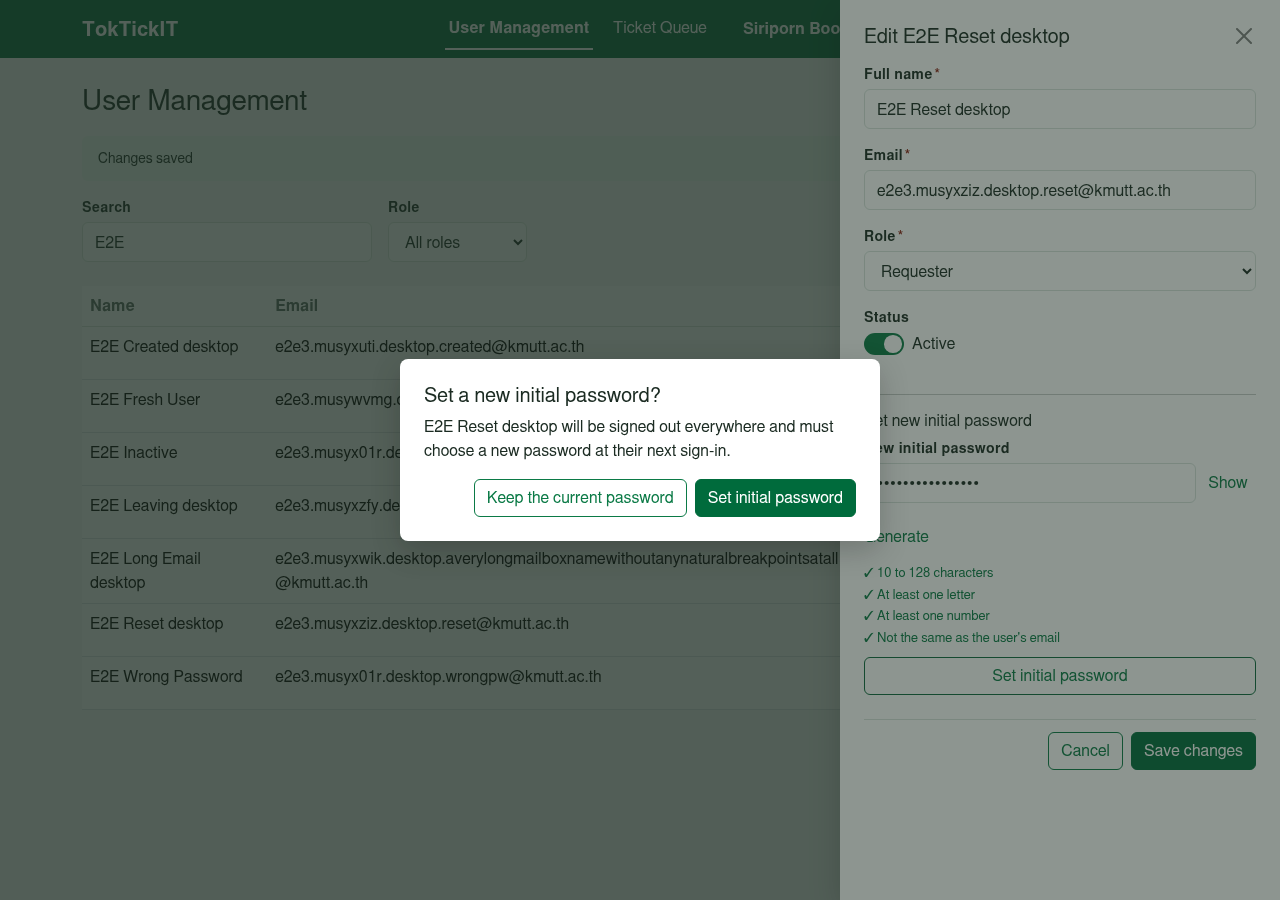
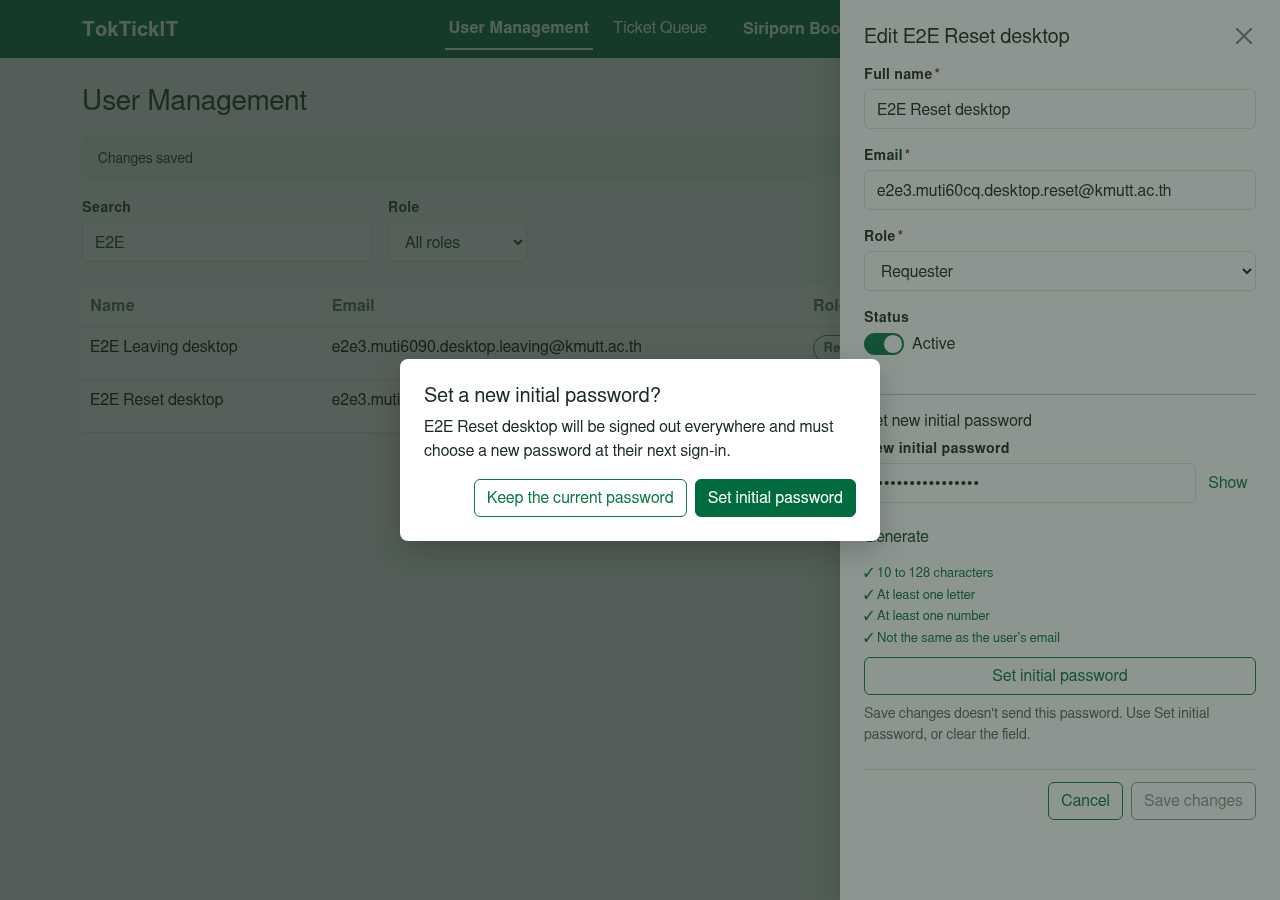
fix: review notes from PR #59 and PR #60
PR #60 (User Management):
- A typed new initial password was silently dropped by Save changes. Save
  changes is now disabled while that field has text, with the reason below
  it ("Save changes doesn't send this password. Use Set initial password,
  or clear the field.").
- LAST_ADMINISTRATOR caused by a role change now appears below Role; it
  stays below Active when the save deactivated the user.
- Three lock-plan retries in a row (BR-81) ended in a plain 500. The loop
  is now retryOnLockPlanChange, which answers 409 STALE_STATE ("This user
  was changed by someone else at the same time. Please try again."); the
  client shows it as a banner in the panel. api-spec §6.3 lists it.

PR #59 (authorization evidence script):
- No argument now prints a plain usage line instead of bash's
  "line 17: 1: usage: ...".
- Empty user ids from /api/auth/me stop the script before any request body
  is built.

The three set-initial-password screenshots are refreshed to show the hint.

Claude-Session: https://claude.ai/code/session_01RtRKhzKcqBzWsTMgWBk4cj

diff --git a/server/src/adminUsers.ts b/server/src/adminUsers.ts
@@ -19,7 +19,24 @@ class Refusal extends Error {
     super(message);
   }
 }
-class LockPlanChanged extends Error {}
+export class LockPlanChanged extends Error {}
+
+const LOCK_PLAN_ATTEMPTS = 3;
+
+// BR-81: an attempt that finds its lock plan out of date throws LockPlanChanged
+// and is tried again. If the user keeps changing under every attempt, answer
+// 409 STALE_STATE so the Administrator can try again (PR #60 review), rather
+// than a 500. Any other error passes straight through.
+export async function retryOnLockPlanChange<T>(attempt: () => Promise<T>): Promise<T> {
+  for (let i = 0; i < LOCK_PLAN_ATTEMPTS; i++) {
+    try {
+      return await attempt();
+    } catch (error) {
+      if (!(error instanceof LockPlanChanged)) throw error;
+    }
+  }
+  throw new Refusal(409, "STALE_STATE", "This user was changed by someone else at the same time. Please try again.");
+}
 
 const invalid = (fields: Record<string, string>) => new Refusal(400, "VALIDATION_ERROR", "Some fields need attention.", fields);
 const emailTaken = () => new Refusal(409, "EMAIL_TAKEN", "Another user already has this email.", { email: "Another user already has this email." });
@@ -128,56 +145,50 @@ const updateUser = handle(async (req, res) => {
   const allowed = Object.fromEntries(Object.entries(body).filter(([k]) => ["name", "email", "role", "isActive"].includes(k)));
   const f = readFields(allowed, []);
 
-  for (let attempt = 0; attempt < 3; attempt++) {
-    try {
-      const user = await prisma.$transaction(async (tx) => {
-        const before = await tx.user.findUniqueOrThrow({ where: { id }, select: { role: true, isActive: true } });
-        const roleChanges = f.role !== undefined && f.role !== before.role;
-        const deactivates = f.isActive === false && before.isActive;
-        // BR-57 — never one's own role or activation.
-        if (id === caller.id && (roleChanges || deactivates)) {
-          throw new Refusal(409, "SELF_CHANGE_FORBIDDEN", "You can't change your own role or deactivate your own account.");
-        }
-        // BR-81 — one lock order for the whole system. A change that could take
-        // away an active Administrator locks the target and every active
-        // Administrator in ONE statement, in ascending id order; any other
-        // change locks only the target. The plan is made from an unlocked read
-        // and re-checked under the locks; if it no longer fits, start over
-        // rather than take more locks out of order.
-        const affectsAdmins = roleChanges || deactivates;
-        const lockAdmins = affectsAdmins && before.role === "ADMINISTRATOR" && before.isActive;
-        const rows = lockAdmins
-          ? await tx.$queryRaw<{ id: number; role: Role; isActive: boolean }[]>`
-              SELECT id, role, "isActive" FROM "User"
-              WHERE id = ${id} OR (role = 'ADMINISTRATOR' AND "isActive")
-              ORDER BY id FOR UPDATE`
-          : await tx.$queryRaw<{ id: number; role: Role; isActive: boolean }[]>`
-              SELECT id, role, "isActive" FROM "User" WHERE id = ${id} FOR UPDATE`;
-        const locked = rows.find((r) => r.id === id)!;
-        if (locked.role !== before.role || locked.isActive !== before.isActive) throw new LockPlanChanged();
+  const user = await retryOnLockPlanChange(() =>
+    prisma.$transaction(async (tx) => {
+      const before = await tx.user.findUniqueOrThrow({ where: { id }, select: { role: true, isActive: true } });
+      const roleChanges = f.role !== undefined && f.role !== before.role;
+      const deactivates = f.isActive === false && before.isActive;
+      // BR-57 — never one's own role or activation.
+      if (id === caller.id && (roleChanges || deactivates)) {
+        throw new Refusal(409, "SELF_CHANGE_FORBIDDEN", "You can't change your own role or deactivate your own account.");
+      }
+      // BR-81 — one lock order for the whole system. A change that could take
+      // away an active Administrator locks the target and every active
+      // Administrator in ONE statement, in ascending id order; any other
+      // change locks only the target. The plan is made from an unlocked read
+      // and re-checked under the locks; if it no longer fits, start over
+      // rather than take more locks out of order.
+      const affectsAdmins = roleChanges || deactivates;
+      const lockAdmins = affectsAdmins && before.role === "ADMINISTRATOR" && before.isActive;
+      const rows = lockAdmins
+        ? await tx.$queryRaw<{ id: number; role: Role; isActive: boolean }[]>`
+            SELECT id, role, "isActive" FROM "User"
+            WHERE id = ${id} OR (role = 'ADMINISTRATOR' AND "isActive")
+            ORDER BY id FOR UPDATE`
+        : await tx.$queryRaw<{ id: number; role: Role; isActive: boolean }[]>`
+            SELECT id, role, "isActive" FROM "User" WHERE id = ${id} FOR UPDATE`;
+      const locked = rows.find((r) => r.id === id)!;
+      if (locked.role !== before.role || locked.isActive !== before.isActive) throw new LockPlanChanged();
 
-        if (f.email !== undefined && (await emailInUse(tx, f.email, id))) throw emailTaken();
-        // BR-58 — never zero active Administrators, counted under the locks.
-        if (lockAdmins && !rows.some((r) => r.id !== id && r.role === "ADMINISTRATOR" && r.isActive)) {
-          throw new Refusal(409, "LAST_ADMINISTRATOR", "TokTickIT must keep at least one active Administrator.");
-        }
-        // BR-60 — not a Requester while owning open tickets (deactivation is fine, BR-29).
-        if (roleChanges && f.role === "REQUESTER") {
-          const open = await tx.ticket.count({ where: { ownerId: id, currentStatus: { notIn: ["CLOSED", "CANCELLED"] } } });
-          if (open > 0) throw new Refusal(409, "OWNS_OPEN_TICKETS", "Reassign this user's open tickets before making them a Requester.");
-        }
-        const updated = await tx.user.update({ where: { id }, data: f, select: SESSION_USER_SELECT });
-        // BR-59 — deactivation and a role change end every session at once.
-        if (roleChanges || deactivates) await tx.session.deleteMany({ where: { userId: id } });
-        return updated;
-      });
-      return res.status(200).json(user);
-    } catch (error) {
-      if (error instanceof LockPlanChanged) continue;
-      throw error;
-    }
-  }
-  throw new Error("User changed repeatedly while being updated.");
+      if (f.email !== undefined && (await emailInUse(tx, f.email, id))) throw emailTaken();
+      // BR-58 — never zero active Administrators, counted under the locks.
+      if (lockAdmins && !rows.some((r) => r.id !== id && r.role === "ADMINISTRATOR" && r.isActive)) {
+        throw new Refusal(409, "LAST_ADMINISTRATOR", "TokTickIT must keep at least one active Administrator.");
+      }
+      // BR-60 — not a Requester while owning open tickets (deactivation is fine, BR-29).
+      if (roleChanges && f.role === "REQUESTER") {
+        const open = await tx.ticket.count({ where: { ownerId: id, currentStatus: { notIn: ["CLOSED", "CANCELLED"] } } });
+        if (open > 0) throw new Refusal(409, "OWNS_OPEN_TICKETS", "Reassign this user's open tickets before making them a Requester.");
+      }
+      const updated = await tx.user.update({ where: { id }, data: f, select: SESSION_USER_SELECT });
+      // BR-59 — deactivation and a role change end every session at once.
+      if (roleChanges || deactivates) await tx.session.deleteMany({ where: { userId: id } });
+      return updated;
+    }),
+  );
+  return res.status(200).json(user);
 });
 
 // §6.4 — a new initial password: forces a change at next sign-in and ends

diff --git a/client/src/screens/UserManagement.tsx b/client/src/screens/UserManagement.tsx
@@ -91,10 +91,12 @@ const rulesMet = (password: string, email: string) => checkPasswordRules(passwor
 
 type Errors = Partial<Record<"name" | "email" | "role" | "isActive" | "initialPassword" | "form", string>>;
 
-function errorsFrom(error: unknown): Errors {
+// LAST_ADMINISTRATOR goes beside the control that caused it: Active when the
+// save deactivated the user, Role when only the role changed (PR #60 review).
+function errorsFrom(error: unknown, lastAdminField: "isActive" | "role" = "isActive"): Errors {
   const err = error instanceof ApiError ? error : null;
   if (!err) return { form: "Something went wrong. Please try again." };
-  if (err.code === "LAST_ADMINISTRATOR") return { isActive: err.message };
+  if (err.code === "LAST_ADMINISTRATOR") return { [lastAdminField]: err.message };
   if (err.code === "OWNS_OPEN_TICKETS") return { role: err.message };
   if (err.code === "SELF_CHANGE_FORBIDDEN") return { role: err.message };
   if (err.fields) return err.fields as Errors;
@@ -119,6 +121,9 @@ function UserPanel({ me, editing, onClose, onSaved }: PanelProps) {
   const [busy, setBusy] = useState(false);
   const [confirmReset, setConfirmReset] = useState(false);
   const titleId = editing ? "edit-user-title" : "create-user-title";
+  // Save changes never sends the new initial password (only Set initial
+  // password does), so it waits until that field is used or cleared (PR #60 review).
+  const unsentPassword = Boolean(editing) && password.length > 0;
   const title = editing ? `Edit ${editing.name}` : "Create user";
 
   function validate(): Errors {
@@ -131,14 +136,15 @@ function UserPanel({ me, editing, onClose, onSaved }: PanelProps) {
 
   async function submit(event: FormEvent) {
     event.preventDefault();
+    if (unsentPassword) return;
     const e = validate();
     setErrors(e);
     if (Object.keys(e).length > 0) return;
     setBusy(true);
+    const changes: Partial<Pick<AdminUser, "name" | "email" | "role" | "isActive">> = {};
     try {
       if (editing) {
         // Only what changed (UI-29); an empty edit just closes.
-        const changes: Partial<Pick<AdminUser, "name" | "email" | "role" | "isActive">> = {};
         if (name.trim() !== editing.name) changes.name = name.trim();
         if (email.trim().toLowerCase() !== editing.email) changes.email = email.trim();
         if (role !== editing.role) changes.role = role;
@@ -150,7 +156,7 @@ function UserPanel({ me, editing, onClose, onSaved }: PanelProps) {
         onSaved("User created");
       }
     } catch (error) {
-      setErrors(errorsFrom(error));
+      setErrors(errorsFrom(error, changes.isActive === undefined && changes.role !== undefined ? "role" : "isActive"));
     } finally {
       setBusy(false);
     }
@@ -236,6 +242,11 @@ function UserPanel({ me, editing, onClose, onSaved }: PanelProps) {
                 <Button variant="secondary" type="button" disabled={busy || !rulesMet(password, email)} onClick={() => setConfirmReset(true)}>
                   Set initial password
                 </Button>
+                {unsentPassword && (
+                  <p id="unsent-password-hint" className="small mt-2 mb-0" style={{ color: "var(--zg-text-muted)" }}>
+                    Save changes doesn't send this password. Use Set initial password, or clear the field.
+                  </p>
+                )}
               </>
             )}
           </>
@@ -243,7 +254,7 @@ function UserPanel({ me, editing, onClose, onSaved }: PanelProps) {
 
         <div className="zg-side-panel__footer d-flex gap-2 justify-content-end mt-4">
           <Button variant="secondary" type="button" onClick={onClose} disabled={busy}>Cancel</Button>
-          <Button type="submit" busy={busy} busyLabel={editing ? "Saving…" : "Creating…"}>{editing ? "Save changes" : "Create user"}</Button>
+          <Button type="submit" busy={busy} busyLabel={editing ? "Saving…" : "Creating…"} disabled={unsentPassword} aria-describedby={unsentPassword ? "unsent-password-hint" : undefined}>{editing ? "Save changes" : "Create user"}</Button>
         </div>
       </form>
 

diff --git a/docs/lab-03/api-spec.md b/docs/lab-03/api-spec.md
@@ -99,7 +99,7 @@ Lab 2 codes keep their meaning; Lab 3 adds the rest.
 | `TICKET_CLOSED` | 409 | the operation is not allowed on a `CLOSED` or `CANCELLED` ticket (BR-37, BR-52, BR-70) |
 | `INVALID_TRANSITION` | 409 | target status not permitted from the current one, or equal to it (BR-41) |
 | `OWNER_REQUIRED` | 409 | transition or unassignment would leave a ticket that needs an owner without one (BR-36, BR-42) |
-| `STALE_STATE` | 409 | `expectedStatus` or `expectedOwnerId` no longer matches the ticket (BR-31, BR-43) |
+| `STALE_STATE` | 409 | `expectedStatus` or `expectedOwnerId` no longer matches the ticket (BR-31, BR-43); or a user edit found the user changing under it on every attempt (BR-81, §6.3) |
 | `ALREADY_MARKED` | 409 | "Problem Appears Resolved" is already recorded, or not allowed in the current status (BR-47) |
 | `EMAIL_TAKEN` | 409 | another user has this email, compared case-insensitively (BR-54) |
 | `SELF_CHANGE_FORBIDDEN` | 409 | an Administrator tried to deactivate themselves, change their own role, or set their own initial password (BR-56, BR-57) |
@@ -482,6 +482,7 @@ Effects: deactivation and role change delete the user's sessions (BR-59).
 | `409` | `SELF_CHANGE_FORBIDDEN` | caller changing their own `isActive` to false or their own `role` (BR-57) |
 | `409` | `LAST_ADMINISTRATOR` | change would leave zero active Administrators (BR-58) |
 | `409` | `OWNS_OPEN_TICKETS` | role → `REQUESTER` while owning non-terminal tickets (BR-60) |
+| `409` | `STALE_STATE` | the user's role or activation changed between the unlocked read and the locks on three attempts in a row (BR-81); nothing is saved, and trying again is safe |
 
 ### 6.4 `POST /api/admin/users/:id/initial-password`
 **Body:** `{ "initialPassword": "…" }` (BR-07). Sets the hash, sets
